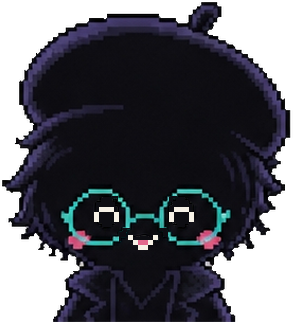
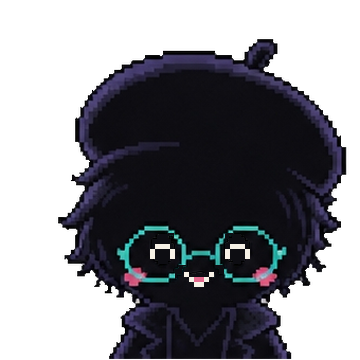
식구 그림 비율 맞춤 — 배웅 배너 다섯 식구 같은 증명사진 틀, 헤드 인턴 키를 하루에 맞춤

diff --git a/bottom.html b/bottom.html
@@ -28,12 +28,12 @@ body{overflow-wrap:anywhere;margin:0;background:var(--bg);color:var(--ink);font-
 .crew::after{content:"";position:absolute;left:6%;right:6%;bottom:0;height:14px;border-radius:50%;background:rgba(31,34,36,.08)}
 .part{position:relative;display:block;background:none;border:0;padding:0;cursor:pointer;flex:none;margin:0}
 .part img{display:block;width:auto;filter:drop-shadow(2px 3px 0 rgba(31,34,36,.10))}
-.part.x img{animation:peek 2.8s ease-in-out infinite}
-.part.x2 img{animation-delay:.45s}.part.x3 img{animation-delay:.9s}
+.part img{animation:peek 2.8s ease-in-out infinite}
+.part.p1 img{animation-delay:.3s}.part.p2 img{animation-delay:.6s}.part.p3 img{animation-delay:.9s}.part.p4 img{animation-delay:1.2s}
 .part.hop{animation:hop .5s ease}
 @keyframes peek{50%{transform:translateY(-6px)}}
 @keyframes hop{30%{transform:translateY(-10px)}60%{transform:none}}
-.part .q{position:absolute;left:50%;top:-4px;transform:translate(-50%,-100%);font-family:var(--mono);font-size:.68rem;font-weight:700;border:1.5px solid var(--line);border-radius:99px;background:#fff;padding:0 7px;white-space:nowrap}
+.part .q{position:absolute;left:50%;top:2px;transform:translate(-50%,-100%);font-family:var(--mono);font-size:.68rem;font-weight:700;border:1.5px solid var(--line);border-radius:99px;background:#fff;padding:0 7px;white-space:nowrap}
 .say{position:absolute;top:12px;left:16px;max-width:min(320px,80%);background:#fff;border:2px solid var(--line);border-radius:14px 14px 14px 4px;padding:7px 12px;font-size:.85rem;box-shadow:3px 3px 0 var(--line);opacity:0;transform:translateY(-4px);transition:opacity .25s,transform .25s;pointer-events:none;margin:0;z-index:2}
 .say.on{opacity:1;transform:none}
 .say b{display:block;font-size:.7rem;color:var(--muted)}
@@ -87,12 +87,11 @@ html.noframe .btext{padding-bottom:18px}
     x2:['(안경을 고쳐 쓰며 방긋)','조금만 기다려 주세요. 곧 인사드릴게요.'],
     x3:['(꾸벅)','…헤헤.']};
   var NAME={sia:'인턴 시아',moa:'인턴 모아',x1:'???',x2:'???',x3:'???'};
-  /* 그림: 인턴 둘은 헤드와 같은 전신 그림, X1~X3는 웃는 얼굴 실루엣(아래에서 빼꼼) */
-  var LAYER={interns:{src:'thumbs/chars/hero/interns.webp',h:1.0},
-    x1:{src:'thumbs/chars/bye/x1_smile.webp',h:0.56},
-    x2:{src:'thumbs/chars/bye/x2_smile.webp',h:0.54},
-    x3:{src:'thumbs/chars/bye/x3_smile.webp',h:0.47}};
-  var ORDER=['interns','x1','x2','x3'];
+  /* 그림: 다섯 식구 모두 같은 증명사진 틀(360×360)·같은 크기·웃는 얼굴(E01). X1~X3는 실루엣에 웃는 눈·입을 그린 것 */
+  var LAYER={sia:'thumbs/chars/idphoto/sia_E01.webp',moa:'thumbs/chars/idphoto/moa_E01.webp',
+    x1:'thumbs/chars/bye/x1_smile.webp',x2:'thumbs/chars/bye/x2_smile.webp',x3:'thumbs/chars/bye/x3_smile.webp'};
+  var ORDER=['sia','moa','x1','x2','x3'];
+  var TAG={sia:'SIA',moa:'MOA',x1:'X1',x2:'X2',x3:'X3'};
   var crew=document.getElementById('crew'),say=document.getElementById('say');
   var reduce=matchMedia('(prefers-reduced-motion: reduce)').matches;
   function el(t,c,x){var e=document.createElement(t);if(c)e.className=c;if(x!=null)e.textContent=x;return e;}
@@ -100,28 +99,25 @@ html.noframe .btext{padding-bottom:18px}
   function speak(w){document.getElementById('sayWho').textContent=T(NAME[w]);
     document.getElementById('sayTxt').textContent=T(LINES[w][Math.floor(Math.random()*LINES[w].length)]);
     say.classList.add('on');clearTimeout(sayT);sayT=setTimeout(function(){say.classList.remove('on');},3200);}
-  function H(){var w=crew.clientWidth||window.innerWidth;return Math.max(90,Math.min(230,(w-48)/2.55));}
+  function H(){var w=crew.clientWidth||window.innerWidth;return Math.round(Math.max(56,Math.min(150,(w-40)/5.5)));}
   function hop(b){if(reduce||!b)return;b.classList.remove('hop');void b.offsetWidth;b.classList.add('hop');}
   function build(){
     crew.querySelectorAll('.part').forEach(function(n){n.remove();});
     var h=H();
-    ORDER.forEach(function(k){
-      var b=el('button','part '+k+(k==='interns'?'':' x'));b.type='button';
-      b.setAttribute('aria-label',k==='interns'?T(NAME.sia)+' · '+T(NAME.moa):T('미공개 식구'));
-      var im=el('img');im.alt='';im.src=LAYER[k].src;im.style.height=Math.round(LAYER[k].h*h)+'px';im.addEventListener('load',post);
-      b.appendChild(im);
-      if(k!=='interns')b.appendChild(el('span','q',k.toUpperCase()));
-      b.addEventListener('click',function(e){
-        var w=k;if(k==='interns'){var r=b.getBoundingClientRect();w=(e.clientX-r.left)<r.width*0.5?'sia':'moa';}
-        hop(b);speak(w);});
+    ORDER.forEach(function(k,i){
+      var b=el('button','part p'+i);b.type='button';
+      b.setAttribute('aria-label',k.charAt(0)==='x'?T('미공개 식구'):T(NAME[k]));
+      var im=el('img');im.alt='';im.src=LAYER[k];im.style.height=h+'px';im.style.width=h+'px';im.addEventListener('load',post);
+      b.appendChild(im);b.appendChild(el('span','q',TAG[k]));
+      b.addEventListener('click',function(){hop(b);speak(k);});
       crew.insertBefore(b,say);parts[k]=b;
     });
     post();
   }
   build();
-  if(!reduce){var seq=['moa','x1','sia','x2','x3'],t=0,OF={sia:'interns',moa:'interns'};
+  if(!reduce){var seq=['moa','x1','sia','x2','x3'],t=0;
     setTimeout(function(){speak('moa');},900);
-    setInterval(function(){t++;var w=seq[t%seq.length];speak(w);hop(parts[OF[w]||w]);},4200);}
+    setInterval(function(){t++;var w=seq[t%seq.length];speak(w);hop(parts[w]);},4200);}
   var rw;window.addEventListener('resize',function(){clearTimeout(rw);rw=setTimeout(build,250);});
   document.getElementById('toTop').addEventListener('click',function(){
     try{window.top.scrollTo({top:0,behavior:reduce?'auto':'smooth'});}catch(e){

diff --git a/top.html b/top.html
@@ -118,7 +118,7 @@ h1{margin:0;font-size:clamp(2rem,4.6vw,3.4rem);line-height:1.05;letter-spacing:-
     document.getElementById('sayTxt').textContent=T(LINES[w][Math.floor(Math.random()*LINES[w].length)]);
     say.classList.add('on');clearTimeout(sayT);sayT=setTimeout(function(){say.classList.remove('on');},3200);}
   /* 연구 장면 그림(배경 없는 4장: 박사·하루 / 시아·모아 / 주판봇 / 초파리). 키 비율은 박사 1.0 기준으로 맞춰 둠 */
-  var LAYER={labpair:{h:1.0011,lift:0},interns:{h:0.88,lift:0},jupanbot:{h:0.7025,lift:0.012},fruitfly:{h:0.5294,lift:0.076}};
+  var LAYER={labpair:{h:1.0011,lift:0},interns:{h:0.96,lift:0},jupanbot:{h:0.7025,lift:0.012},fruitfly:{h:0.5294,lift:0.076}};
   var PAIR={labpair:['doctor','haru'],interns:['sia','moa']};
   var parts={};
   function H(){var w=crew.clientWidth||window.innerWidth;return Math.max(96,Math.min(250,(w-40)/3.05));}
